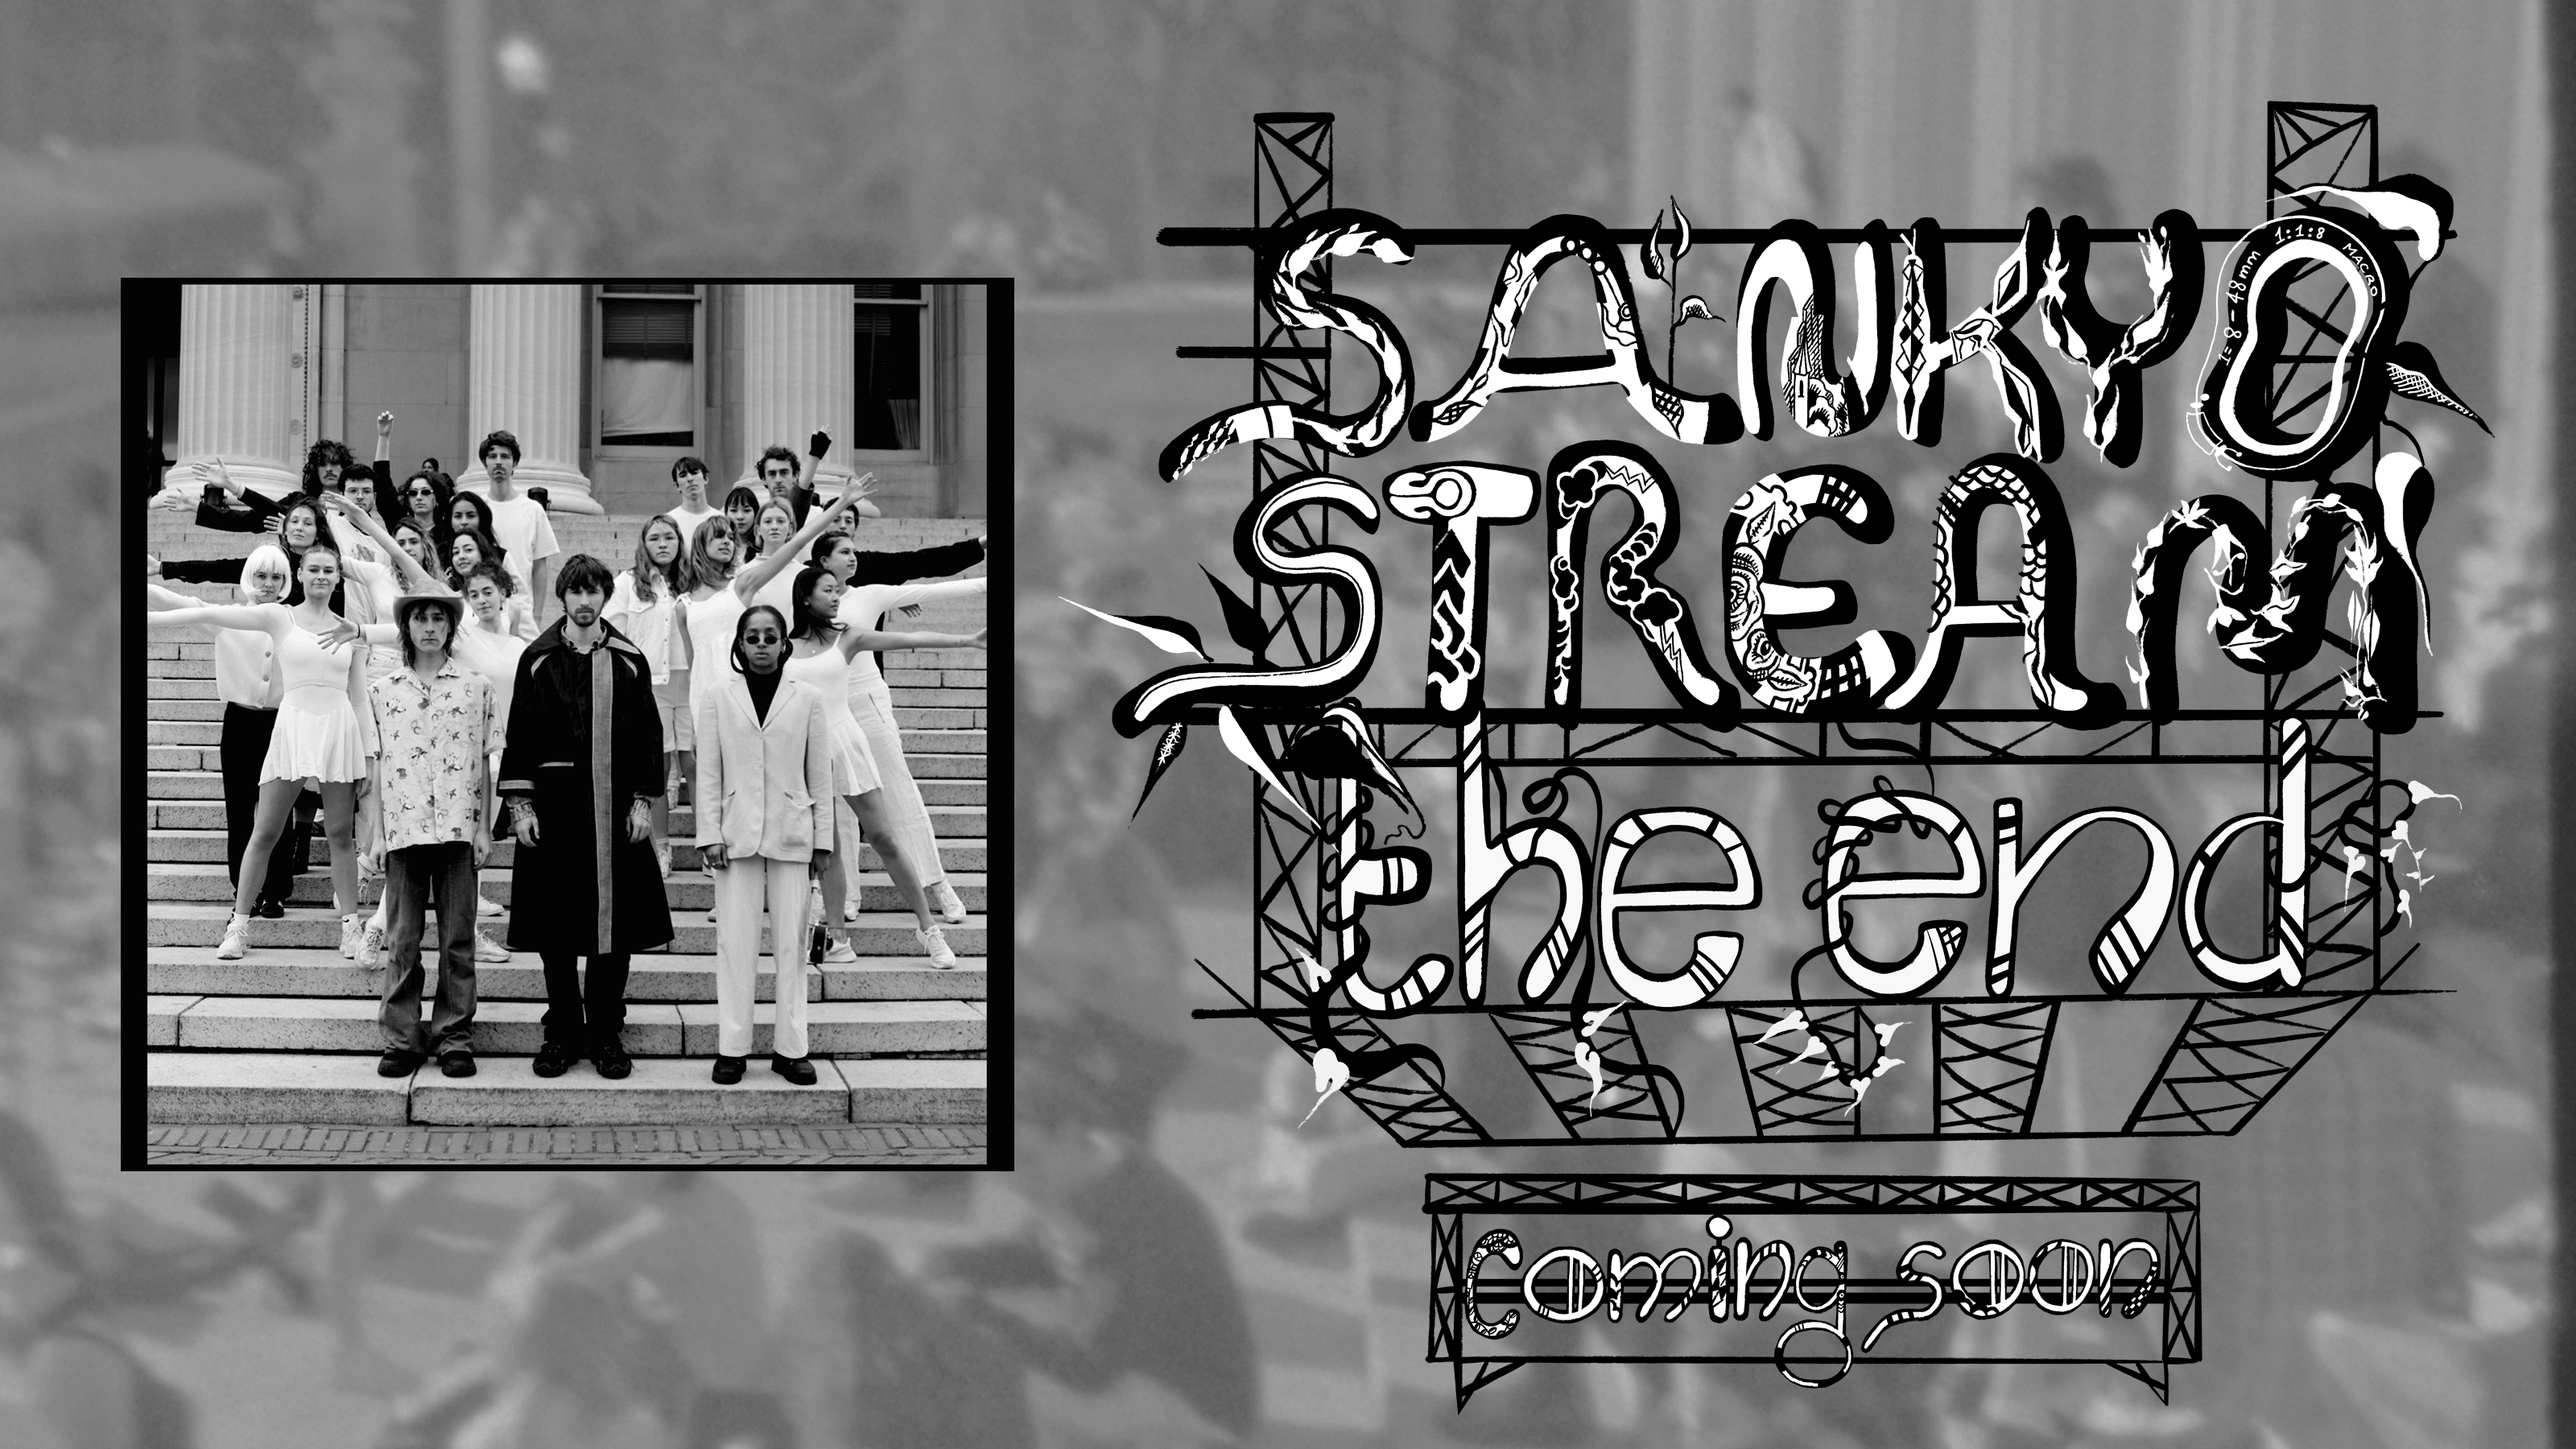
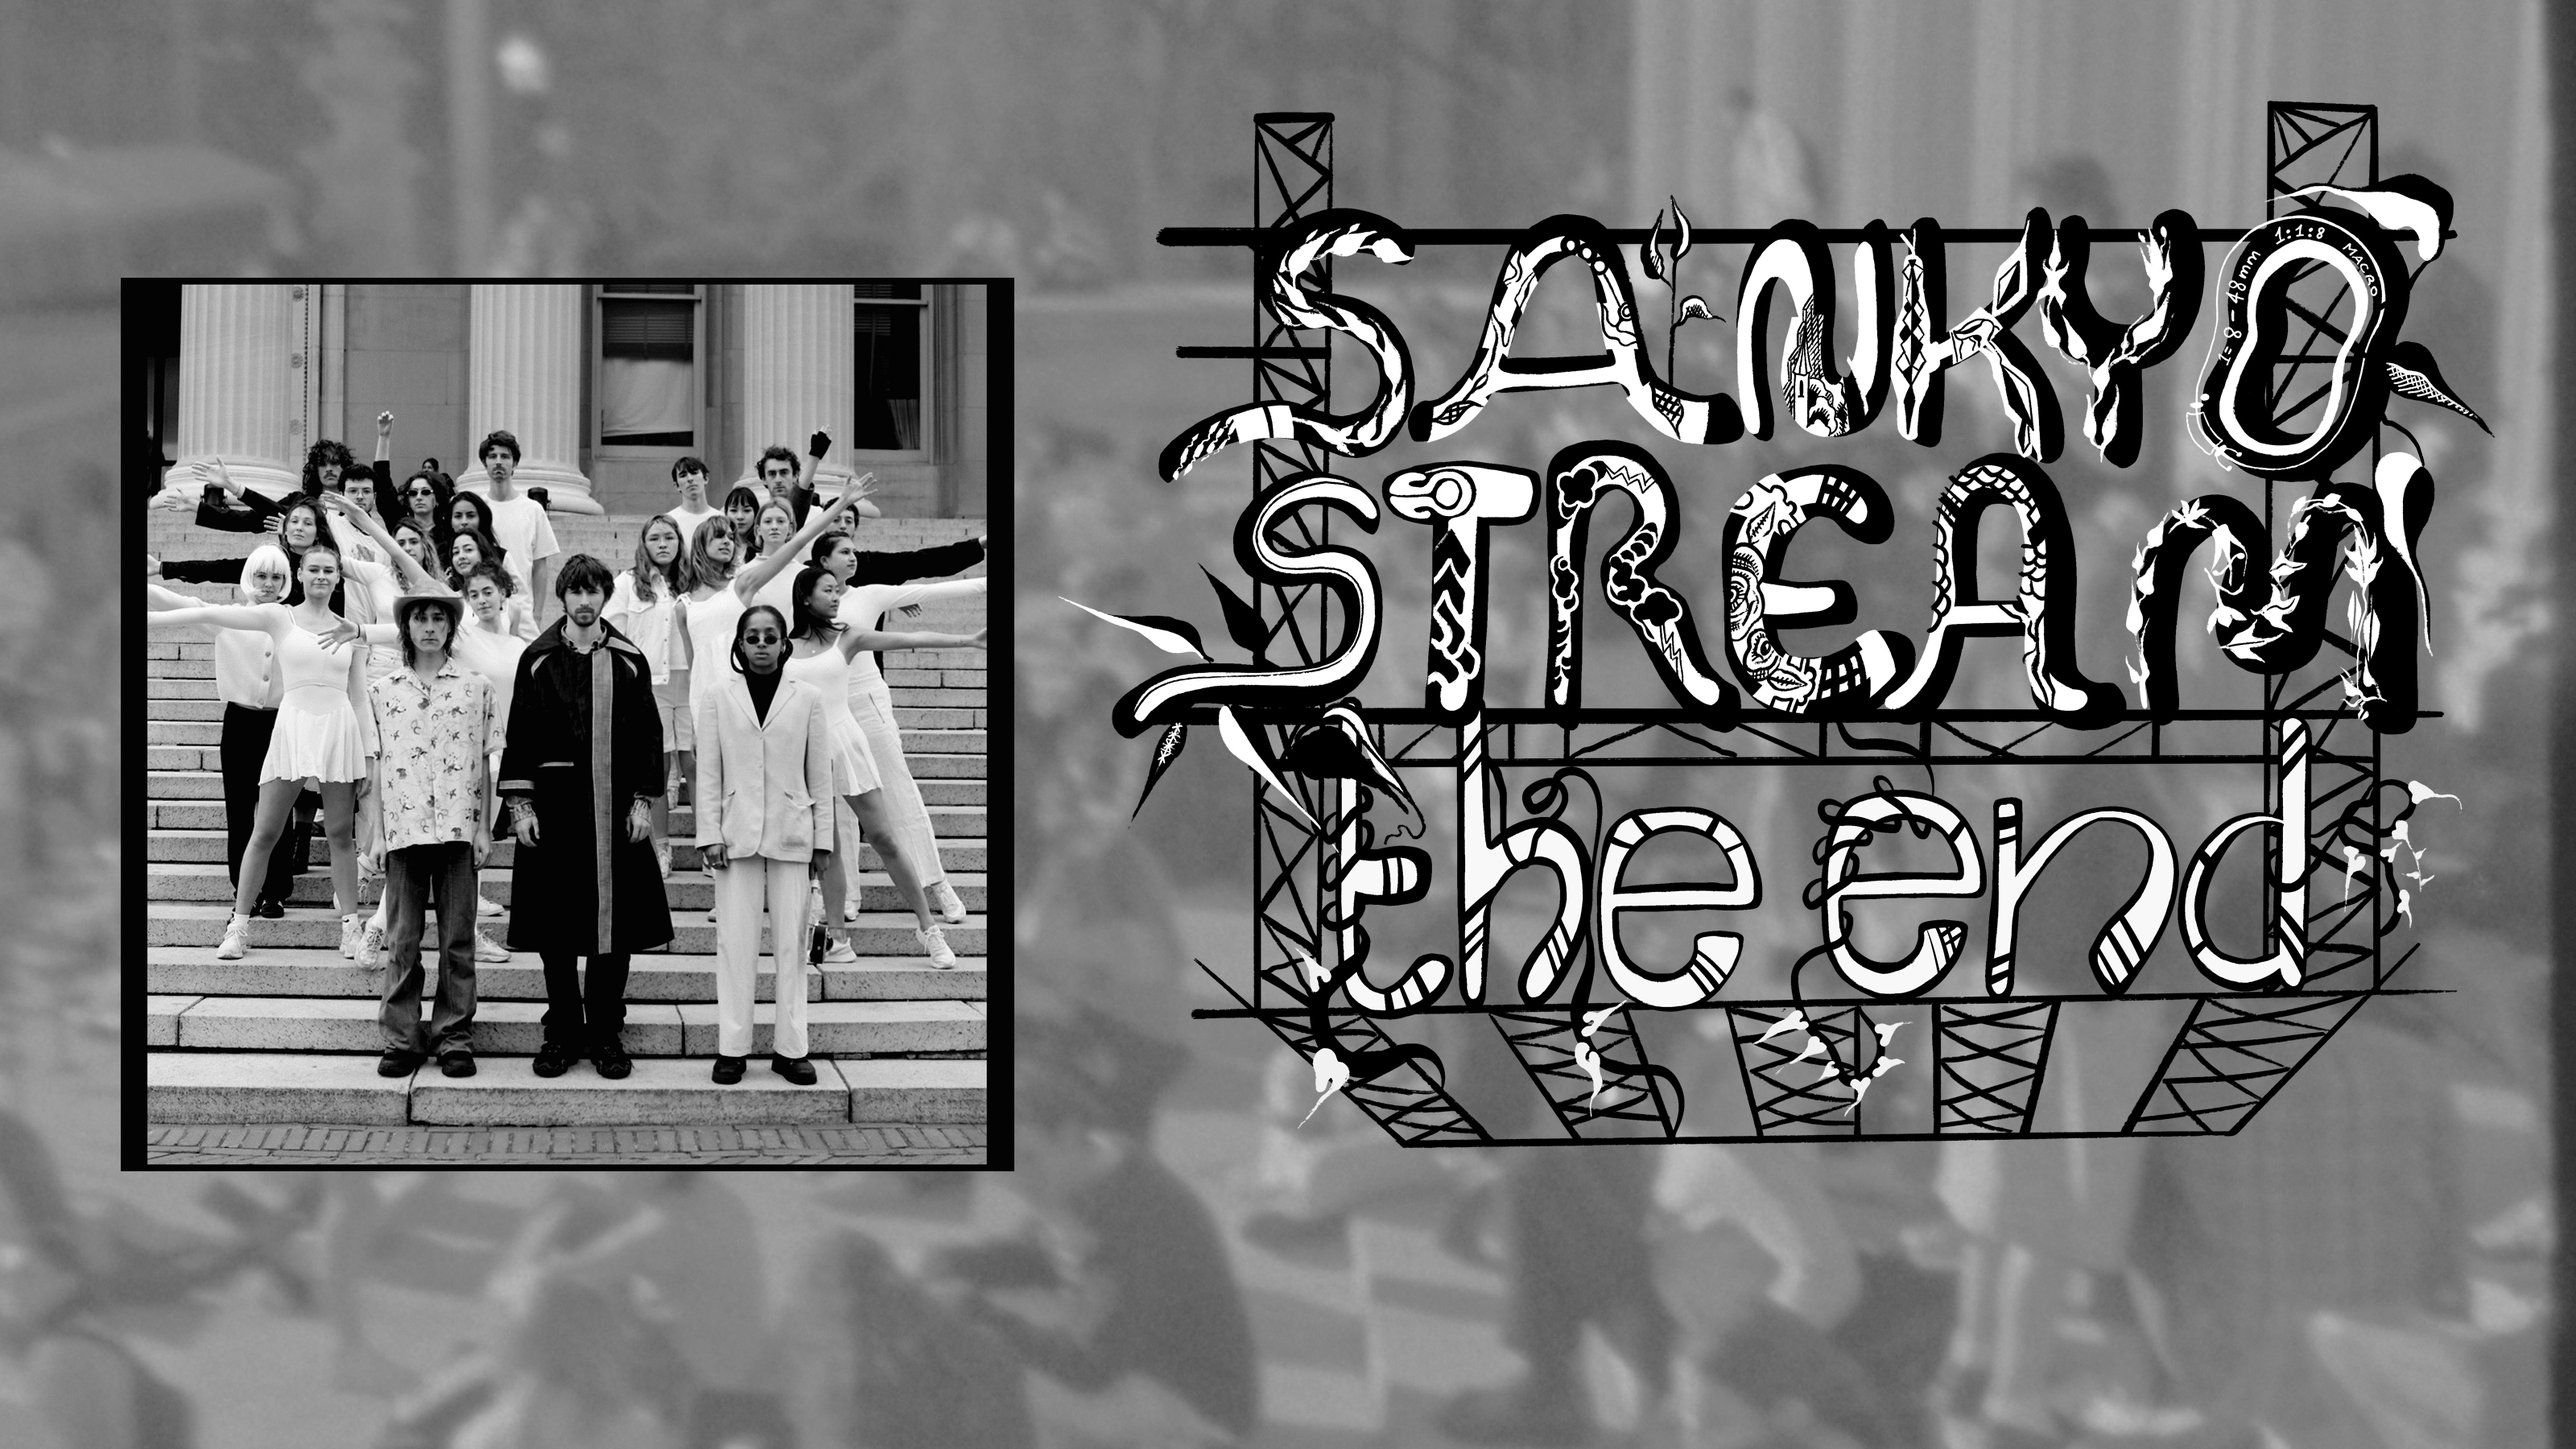
remove coming soon

Changed region(s): [[0.5312, 0.8089, 0.875, 0.9644]]

diff --git a/sankyo-stream.html b/sankyo-stream.html
@@ -14,11 +14,13 @@
 
 <body>
     <base target="_blank">
-    <div id="theend-banner">
-        <div id="theend-gif">
-            <img src="/images/sankyo-stream/theend-gif.gif" alt="">
+    <a href="https://vimeo.com/802029609">
+        <div id="theend-banner">
+            <div id="theend-gif">
+                <img src="/images/sankyo-stream/theend-gif.gif" alt="">
+            </div>
         </div>
-    </div>
+    </a> 
 
     <a href="https://vimeo.com/709837227">
         <div id="banner">

diff --git a/sankyo.css b/sankyo.css
@@ -41,7 +41,7 @@ a {
 }
 
 #theend-banner {
-    background-image: url("/images/sankyo-stream/theend-banner-mobile-comingsoon.jpg");
+    background-image: url("/images/sankyo-stream/theend-banner-mobile.jpg");
     width:100%;
     height:0;
     display: inline-block;
